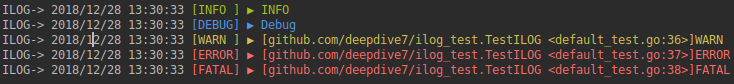
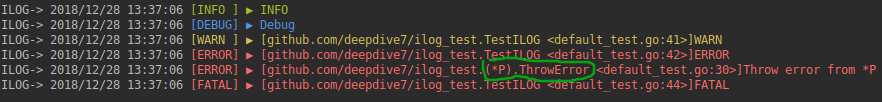
ilog v0.1

diff --git a/default_test.go b/default_test.go
@@ -6,7 +6,7 @@ import (
 
 	"github.com/deepdive7/ilog"
 )
-
+var l = ilog.NewSimpleDefaultLogger(os.Stdout, 0, "ILOG->", true)
 func TestCallerInfo(t *testing.T) {
 	l := ilog.NewSimpleDefaultLogger(os.Stdout, 1, "gLogger->", true)
 	l.Error("Error")
@@ -24,8 +24,13 @@ func BenchmarkLoggerError(b *testing.B) {
 	}
 }
 
+type P struct {}
+
+func (p *P) ThrowError() {
+	l.Error("Throw error from *P")
+}
+
 func TestILOG(t *testing.T) {
-	l := ilog.NewSimpleDefaultLogger(os.Stdout, 0, "ILOG->", true)
 	info := "INFO"
 	debug := "Debug"
 	warn := "WARN"
@@ -35,6 +40,7 @@ func TestILOG(t *testing.T) {
 	l.Debug(debug)
 	l.Warn(warn)
 	l.Error(err)
+	(&P{}).ThrowError()
 	l.Fatal(fatal)
 }
 

diff --git a/README.md b/README.md
@@ -1,7 +1,7 @@
 # ilog
 A simple logger.
 
-### Usage
+### Simple Usage
 ```
 func TestILOG(t *testing.T) {
 	l := ilog.NewSimpleDefaultLogger(os.Stdout, 0, "ILOG->", true)
